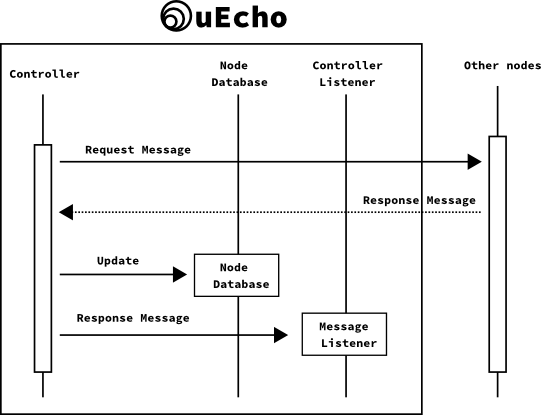
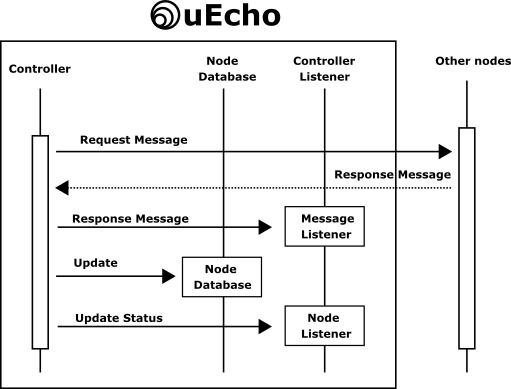
Update documents

Changed region(s): [[0.0, 0.0, 1.0, 1.0], [0.1468, 0.3393, 0.3816, 0.401], [0.0, 0.1542, 0.1468, 0.1851]]

diff --git a/src/uecho/controller_listener.c b/src/uecho/controller_listener.c
@@ -184,6 +184,9 @@ void uecho_controller_handlenodemessage(uEchoController* ctrl, uEchoMessage* msg
   // Notify node status
 
   if (ctrl->node_listener) {
+    if (uecho_message_isnotification(msg)) {
+      ctrl->node_listener(ctrl, src_node, uEchoNodeStatusAnnounced, msg);
+    }
     if (uecho_message_isresponse(msg)) {
       ctrl->node_listener(ctrl, src_node, uEchoNodeStatusResponded, msg);
     }

diff --git a/doc/controller_inside.md b/doc/controller_inside.md
@@ -14,11 +14,11 @@ The `uecho` adds the node profile class objects automatically when the controlle
 
 ## Controller Message Listeners
 
-The `uecho` handles all messages from other nodes automatically. However, the developer can set the listener using `uecho_controller_setmessagelistener()` to listen to the internal messages from other nodes. 
+The `uecho` handles all messages from other nodes automatically. However, the developer can listen the messages directly using some listener functions . After a node is received a message from other nodes, the controller listeners are called as the following sequences:
 
 ![Controller Observers](img/controller_msg_listener.png)
 
-After a node is received a message from other nodes, the node's listeners are called as the following sequences:
+The developer can set a listener using `uecho_controller_setmessagelistener()` to listen to all received messages from other nodes. Also, the developer can set a listern using `uecho_controller_setnodelistener()` to know the node update status when the node is updated by the received messages.
 
 ## References
 
